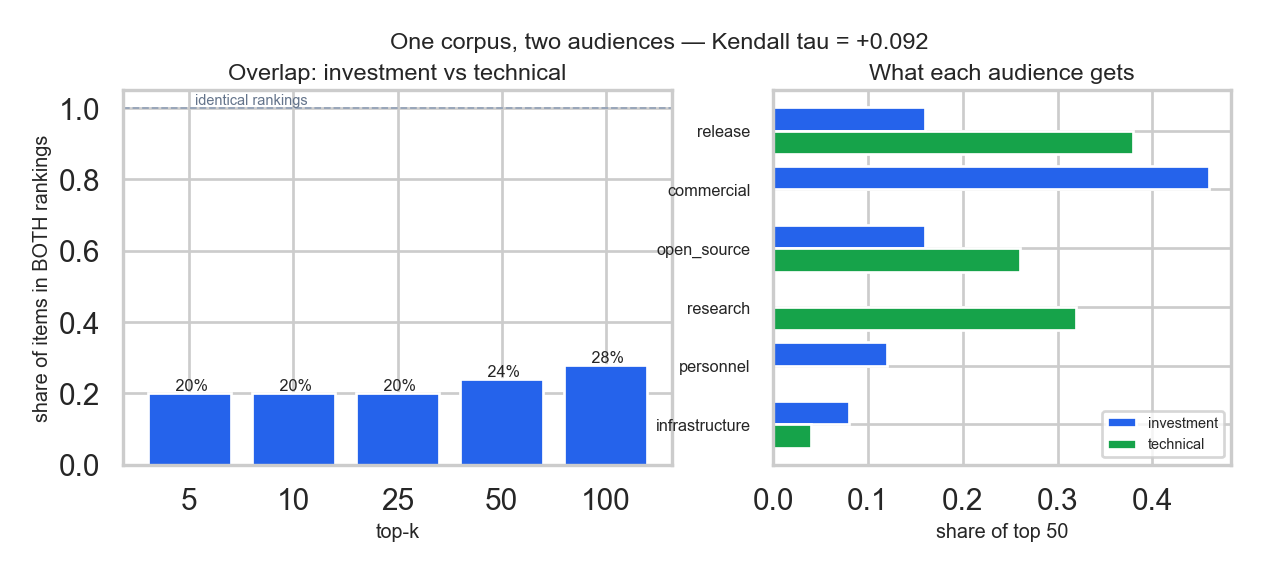
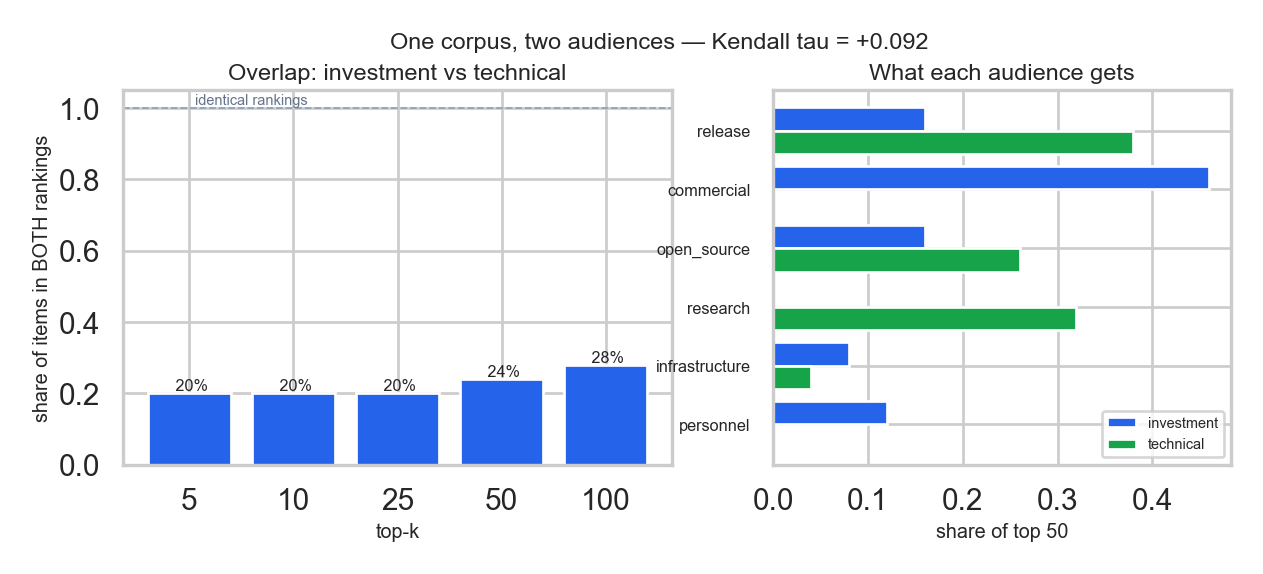
f14: talent mobility mechanism figure; end-to-end proof lives in the suite
Two panels kept apart from every extraction statistic: personnel events
by origin (LLM-extracted vs register-synthesized, tagged via evidence
locator) and register re-observation coverage (lab pages, X bios,
30-day freshness). Zero synthesized events with an armed register reads
as 'no move witnessed yet', not 'mechanism cannot fire' -- that claim
is held by tests/knowledge/test_mobility.py::TestDigestVisibility,
which plants a move in an in-memory DB and shows the resulting event
reach the digest slate dated by its arrival observation. No synthetic
data or demo tooling ships with the system. Suite 101 OK.

Changed region(s): [[0.5249, 0.5923, 0.7102, 0.6812], [0.5249, 0.7108, 0.6485, 0.7997], [0.6485, 0.6812, 0.7102, 0.7404]]

diff --git a/fli/validation/evaluation.py b/fli/validation/evaluation.py
@@ -676,6 +676,77 @@ def fig_rubric_divergence(conn) -> tuple[str, str]:
         f"the claim that one ranking cannot serve both readers.")
 
 
+def fig_mobility(conn) -> tuple[str, str]:
+    """Talent movement is the marquee signal and the corpus is thinnest on it.
+
+    Two panels, deliberately separate from every other figure so synthesized
+    events never blend into the extraction statistics:
+
+        left   what the personnel channel has PRODUCED — LLM-extracted events
+               vs moves synthesized from affiliation history (tagged
+               mobility_synthesis in their evidence locator)
+        right  whether the mechanism is ARMED — how much of the register is
+               re-observable, on what surfaces, and how fresh the observations
+               are. Zero synthesized events with an armed register means no
+               move has happened yet; zero with a dark register would mean the
+               mechanism cannot fire. The distinction is the figure.
+    """
+    plt, _ = _style()
+    q = lambda s, *a: conn.execute(s, a).fetchone()[0]
+    synthesized = q("SELECT count(*) FROM insights i JOIN evidence e"
+                    " ON e.id=i.evidence_id WHERE i.event_type='personnel'"
+                    " AND e.locator LIKE '%mobility_synthesis%'")
+    extracted = q("SELECT count(*) FROM insights WHERE event_type='personnel'"
+                  ) - synthesized
+
+    page_people = q("SELECT count(DISTINCT a.person_id) FROM affiliations a"
+                    " JOIN identities i ON i.person_id=a.person_id"
+                    " WHERE a.basis='page_verbatim' AND i.platform='lab_page'")
+    bio_people = q("SELECT count(DISTINCT person_id) FROM identities"
+                   " WHERE platform='x'")
+    fresh = q("SELECT count(DISTINCT person_id) FROM affiliations"
+              " WHERE observed_at >= datetime('now','-30 days')")
+    tracked = q("SELECT count(*) FROM people")
+
+    fig, (ax1, ax2) = plt.subplots(1, 2, figsize=(11, 4.5))
+    ax1.bar(["LLM-extracted", "register-synthesized"],
+            [extracted, synthesized], color=["#2563eb", "#16a34a"], width=.55)
+    for i, v in enumerate([extracted, synthesized]):
+        ax1.text(i, v, f" {v}", ha="center", va="bottom", fontsize=11)
+    ax1.set_ylabel("personnel events")
+    ax1.set_title("Produced: personnel events by origin")
+    ax1.set_ylim(0, max(extracted, synthesized, 1) * 1.3)
+
+    labels = ["tracked people", "re-observable\n(lab pages)",
+              "re-observable\n(X bios)", "observed in\nlast 30 days"]
+    vals = [tracked, page_people, bio_people, fresh]
+    ax2.bar(labels, vals, color=["#94a3b8", "#2563eb", "#2563eb", "#16a34a"],
+            width=.6)
+    for i, v in enumerate(vals):
+        ax2.text(i, v, f" {v}", ha="center", va="bottom", fontsize=11)
+    ax2.set_title("Armed: register re-observation coverage")
+    ax2.tick_params(axis="x", labelsize=9)
+
+    detectable = q("SELECT count(DISTINCT person_id) FROM affiliations"
+                   " WHERE basis='page_verbatim'")
+    return _save(plt, fig, "f14_mobility", MECHANICAL), (
+        f"{extracted} personnel event(s) came from document extraction; "
+        f"{synthesized} were synthesized from affiliation history "
+        f"(a person observed at two labs in succession). {detectable} of "
+        f"{tracked} tracked people are re-observable ({page_people} via lab "
+        f"pages, {bio_people} via X bios on a weekly cadence), and {fresh} "
+        f"were observed inside the last 30 days. The mechanism itself is "
+        f"validated end-to-end in the test suite (tests/knowledge/"
+        f"test_mobility.py plants a move and shows the resulting event reach "
+        f"the digest slate, dated by its arrival) — the live corpus simply "
+        f"has not yet witnessed a move."
+        if synthesized == 0 else
+        f"{synthesized} move(s) synthesized from affiliation history against "
+        f"{extracted} extracted personnel event(s); {detectable} of {tracked} "
+        f"tracked people are re-observable and {fresh} were observed inside "
+        f"the last 30 days.")
+
+
 FIGURES = [
     ("Signal-vs-noise funnel", fig_funnel, "f1_funnel"),
     ("Feature correlation", fig_feature_correlation, "f2_feature_correlation"),
@@ -690,6 +761,7 @@ FIGURES = [
     ("Learning curve", fig_learning_curve, "f11_learning_curve"),
     ("Rank skew by lab", fig_rank_skew, "f12_rank_skew"),
     ("Rubric divergence", fig_rubric_divergence, "f13_rubric_divergence"),
+    ("Talent mobility mechanism", fig_mobility, "f14_mobility"),
 ]
 
 

diff --git a/tests/knowledge/test_mobility.py b/tests/knowledge/test_mobility.py
@@ -128,3 +128,41 @@ class TestMoveDetection(MobilityCase):
         bases = [r["basis"] for r in self.conn.execute(
             "SELECT basis FROM event_entities WHERE role IN ('mover_from','mover_to')")]
         self.assertEqual(bases, ["source_inferred", "source_inferred"])
+
+
+class TestDigestVisibility(MobilityCase):
+    """The end-to-end promise: a synthesized move reaches the digest slate.
+
+    Lab pages carry no published_at, so without the locator-date rule in
+    top_events the undated filter would silently hide every move the register
+    detects. This holds that whole chain: detect -> cluster -> score ->
+    top_events, on an in-memory DB with a recent arrival.
+    """
+
+    def test_synthesized_move_surfaces_in_the_slate_dated_by_arrival(self):
+        from datetime import datetime, timedelta, timezone
+        from fli.intelligence import clustering, scoring
+
+        departed = (datetime.now(timezone.utc) - timedelta(days=30)
+                    ).strftime("%Y-%m-%dT00:00:00Z")
+        arrived = (datetime.now(timezone.utc) - timedelta(days=2)
+                   ).strftime("%Y-%m-%dT00:00:00Z")
+        self.affiliate(1, 1, departed)
+        self.affiliate(1, 2, arrived)
+        self.assertEqual(self.detect()["created"], 1)
+        event_id = self.personnel_events()[0]["id"]
+
+        with contextlib.redirect_stdout(io.StringIO()):
+            clustering.cluster_all(self.conn)
+        # scoring itself is trained on judgements this tiny DB does not have;
+        # what mobility must prove is that the slate rules (undated filter,
+        # cluster collapse) pass the event through once it carries a score.
+        self.conn.execute("UPDATE insights SET score=1.0 WHERE id=?", (event_id,))
+
+        rows, dropped = scoring.top_events(self.conn, k=10)
+        slate_ids = [r["id"] for r in rows]
+        self.assertIn(event_id, slate_ids,
+                      f"synthesized move missing from slate; dropped={dropped}")
+        seen = rows[slate_ids.index(event_id)]
+        self.assertEqual(seen["published_at"], arrived,
+                         "the event must be dated by its arrival observation")
